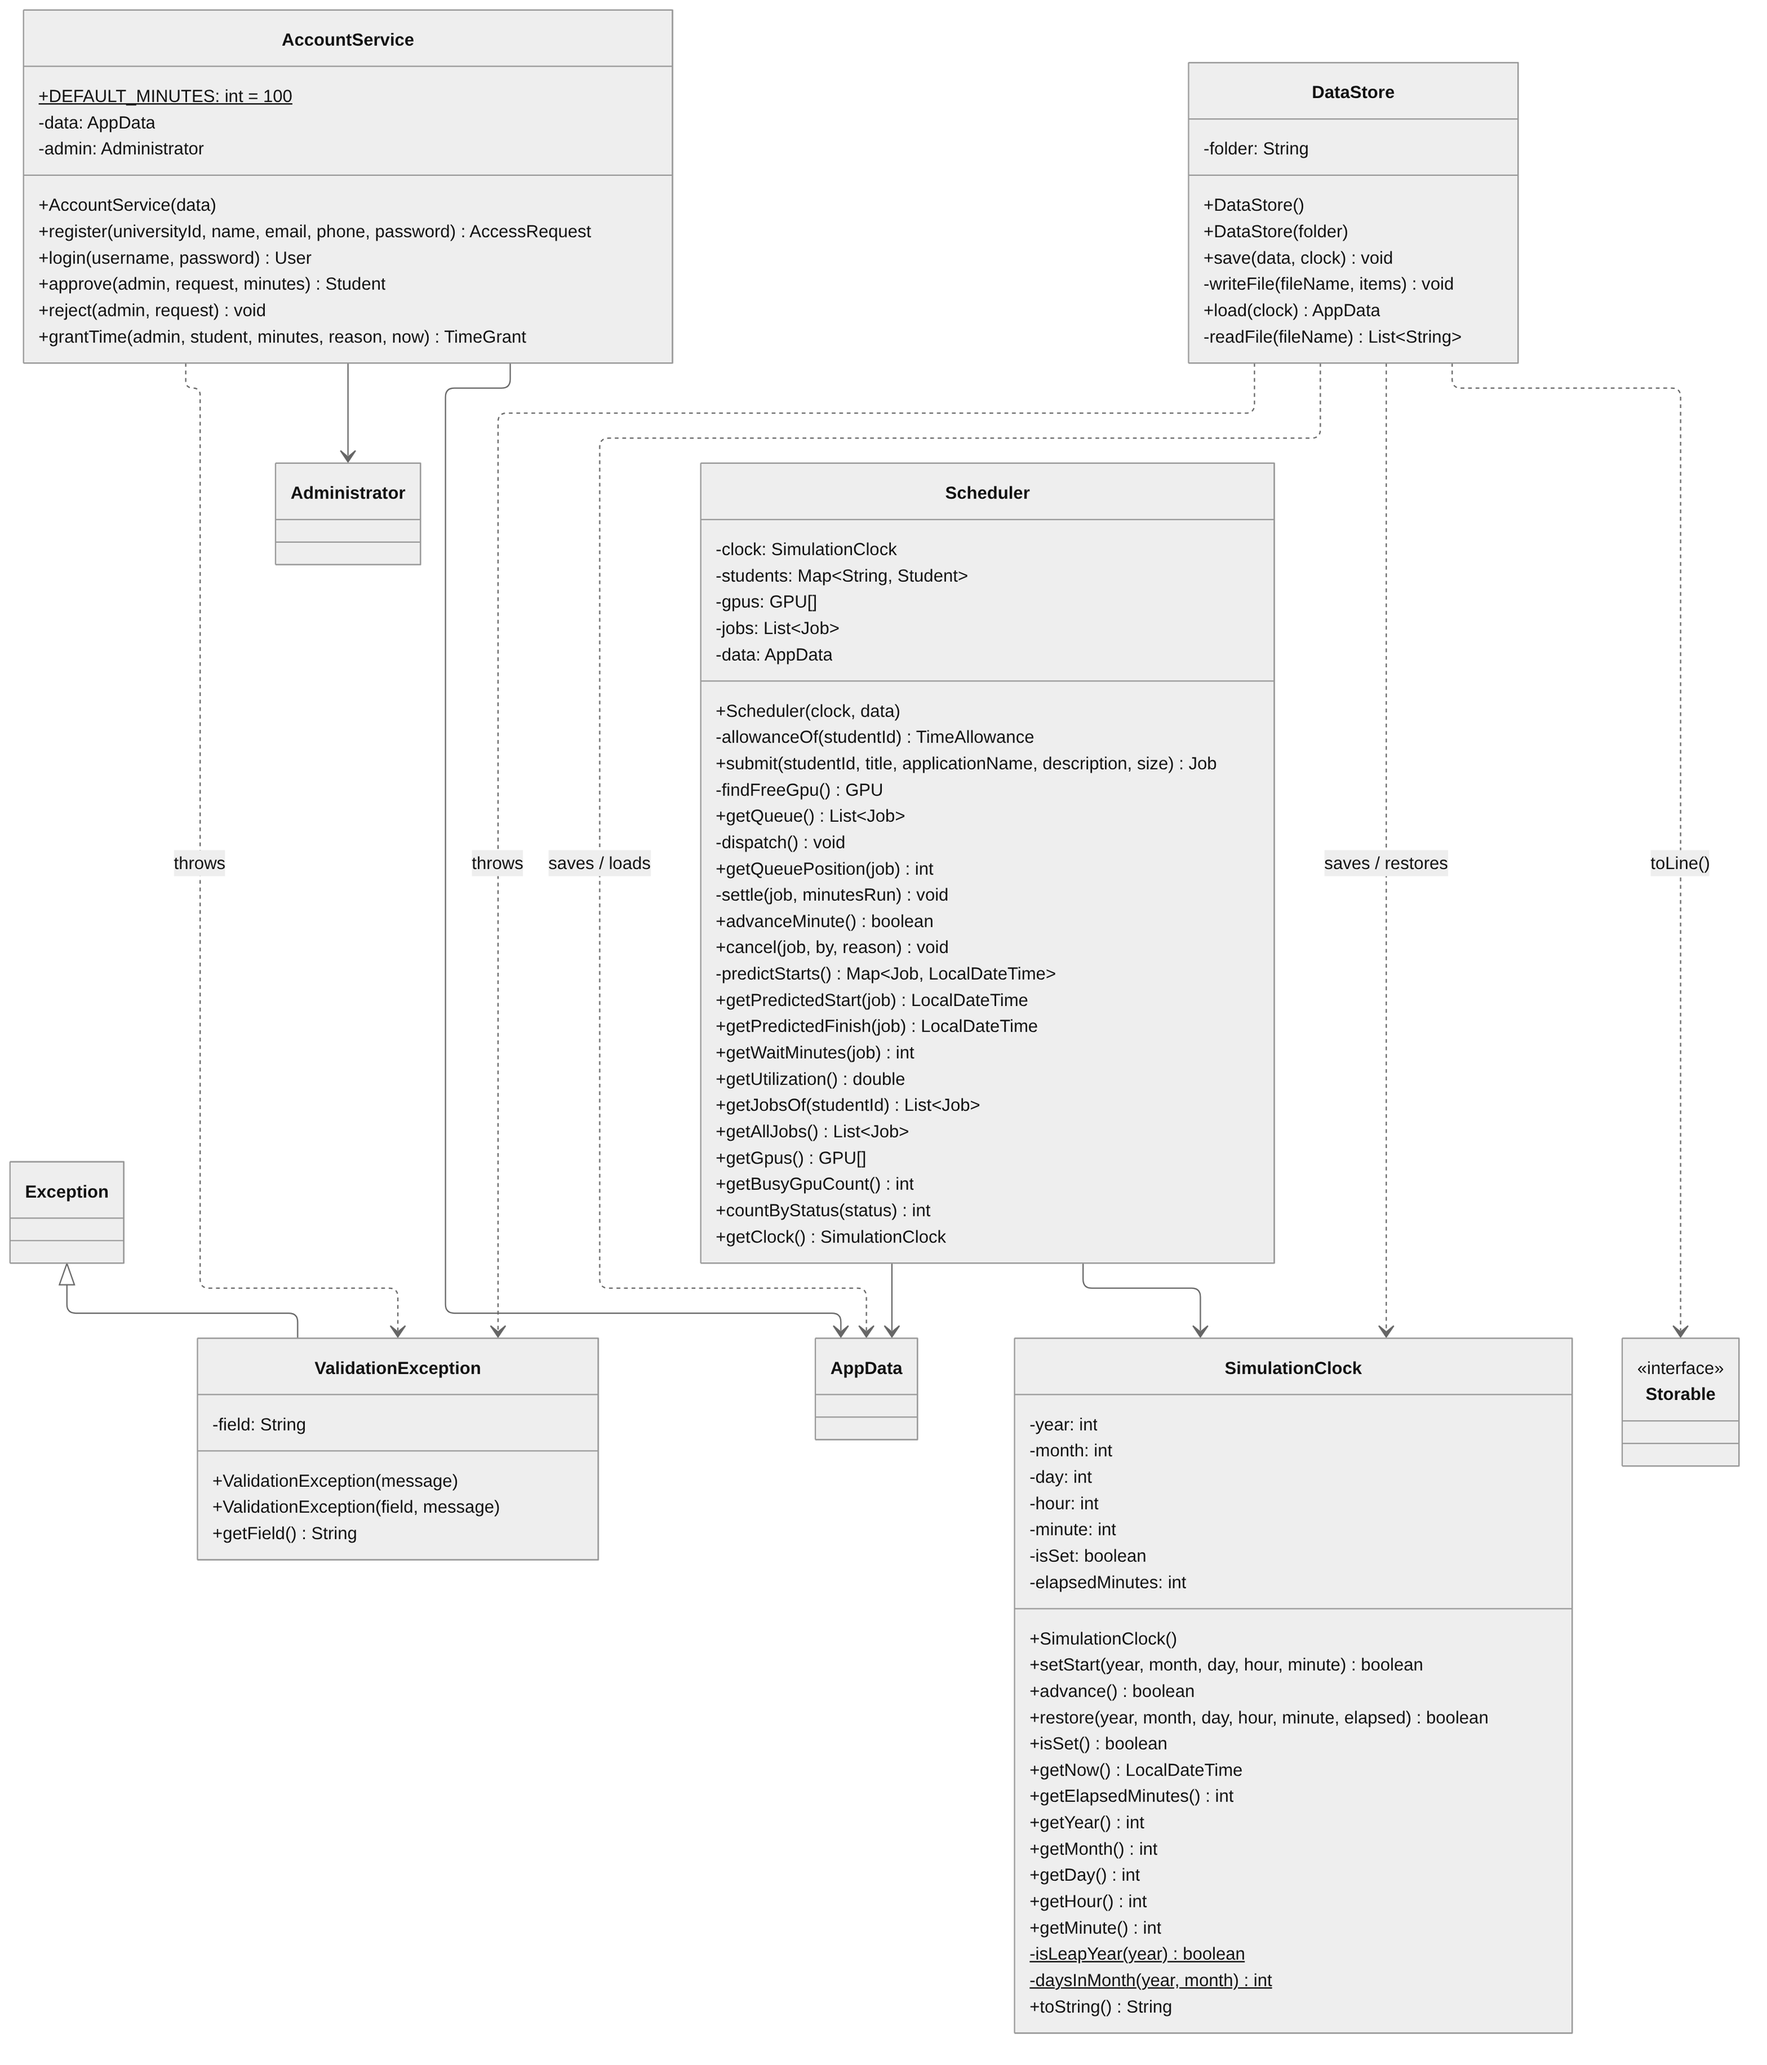
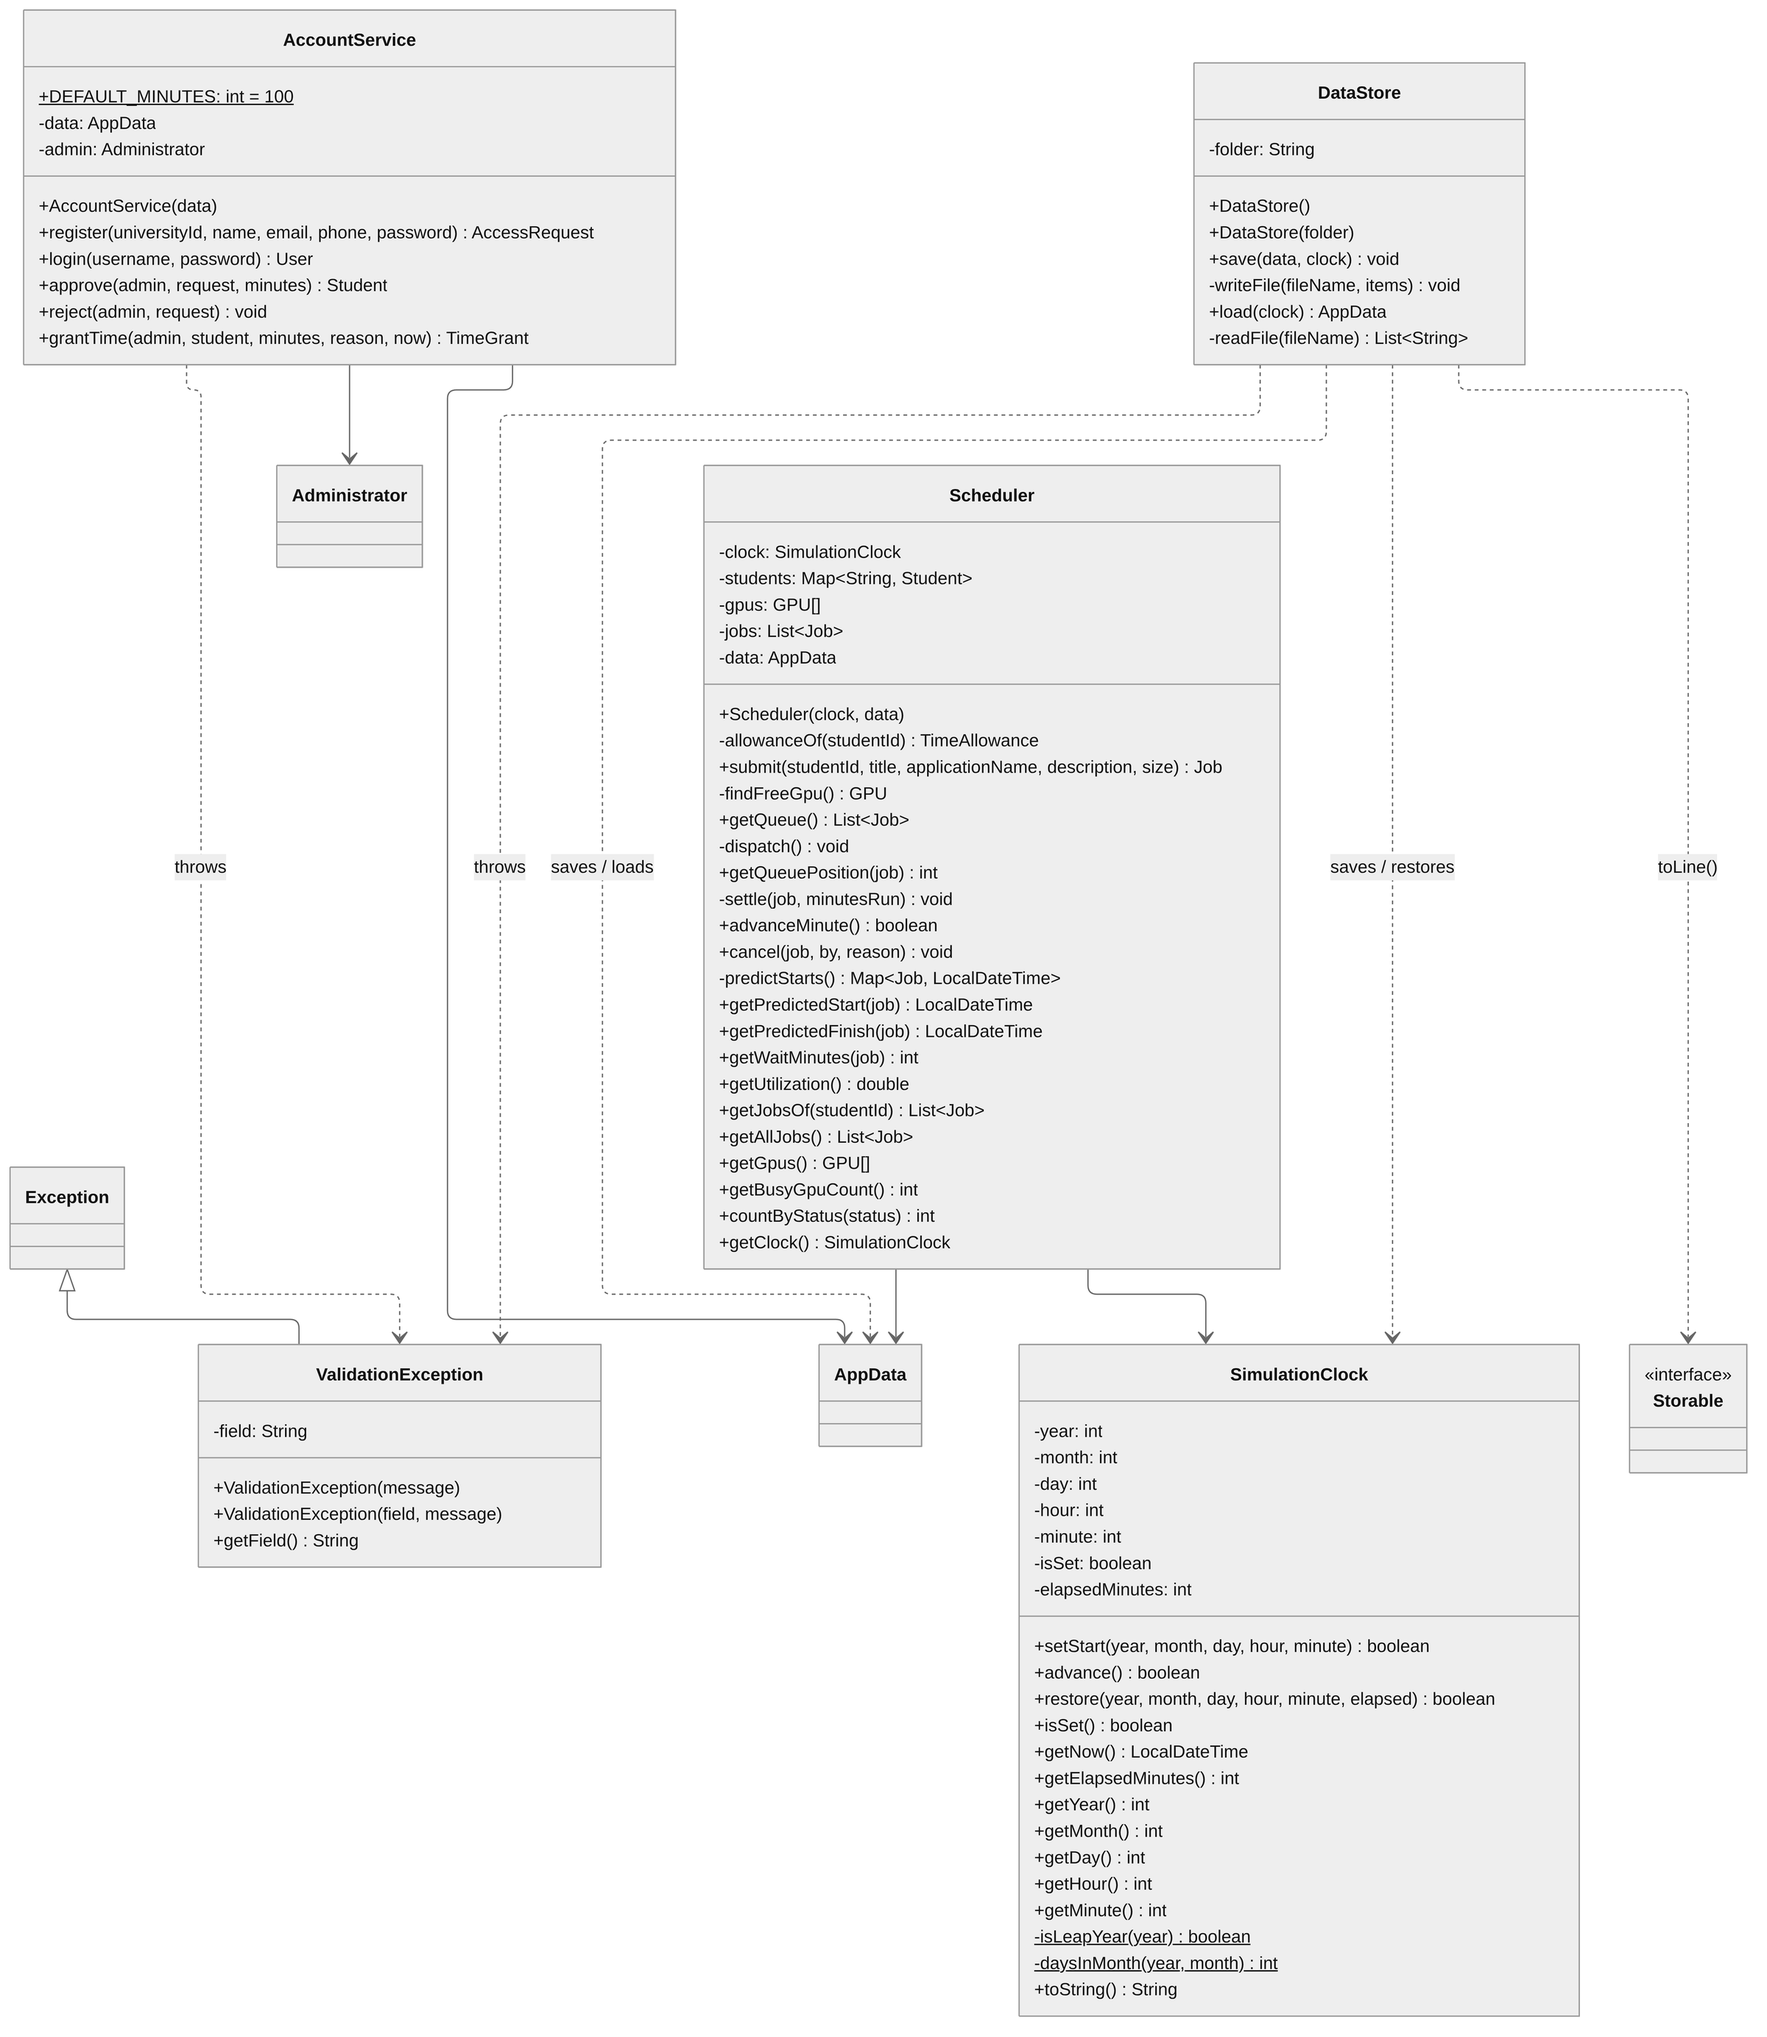
updated logic diagram and commit counts

diff --git a/README.md b/README.md
@@ -221,7 +221,7 @@ Everything is in one repository on the `main` branch, and each member committed 
 
 | Member | Commits | Main work |
 |---|---|---|
-| Simreen | 54 | project setup, model classes, `AccountService`, `DataStore`, `Main`, tests, diagrams, clean-up, student window tabs |
+| Simreen | 62 | project setup, model classes, `AccountService`, `DataStore`, `Main`, tests, diagrams, clean-up, student window tabs |
 | Mariam | 16 | `SimulationClock`, `Scheduler`, moving it onto the shared `AppData` |
 | Alyazeya | 21 | login, registration, student window, job form, My Jobs, connecting them to the services |
 | Maryam | 9 | admin window and all tabs, clock setup, demo data |
